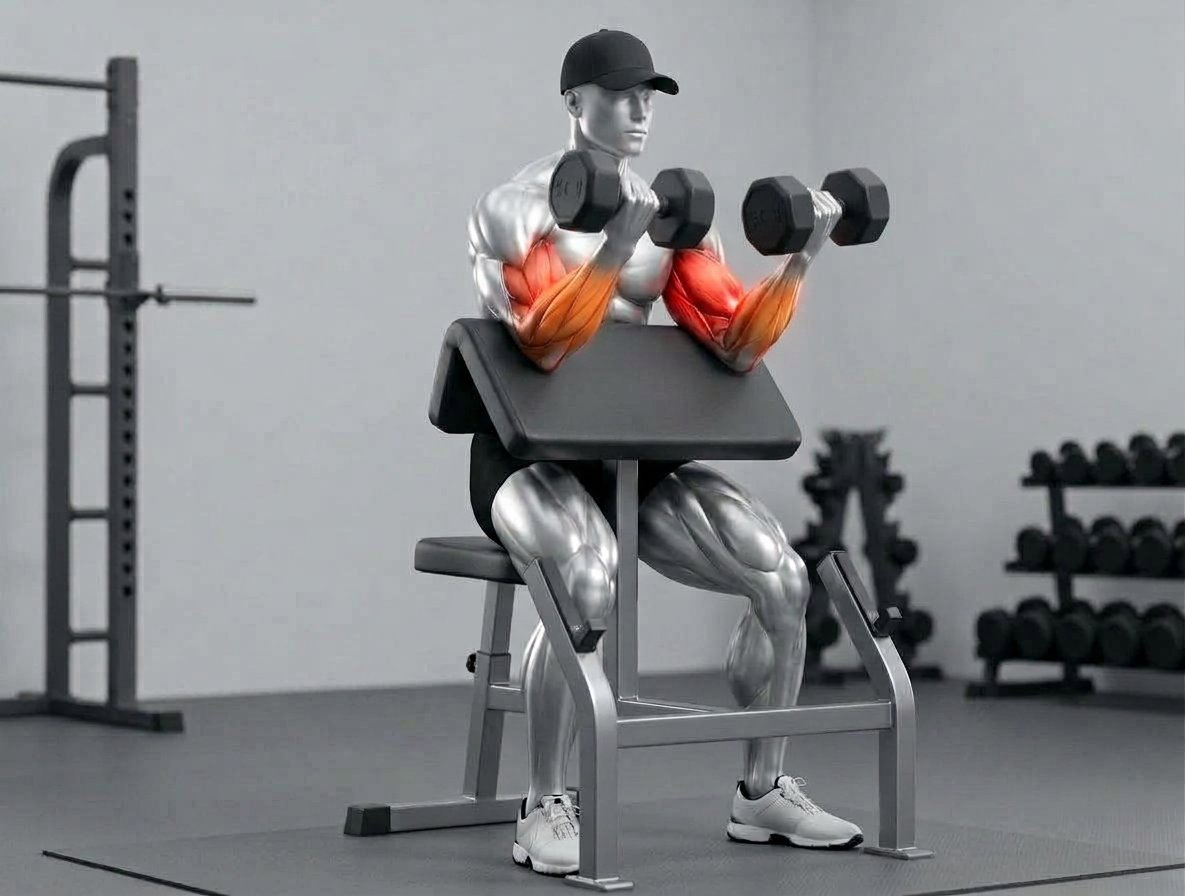
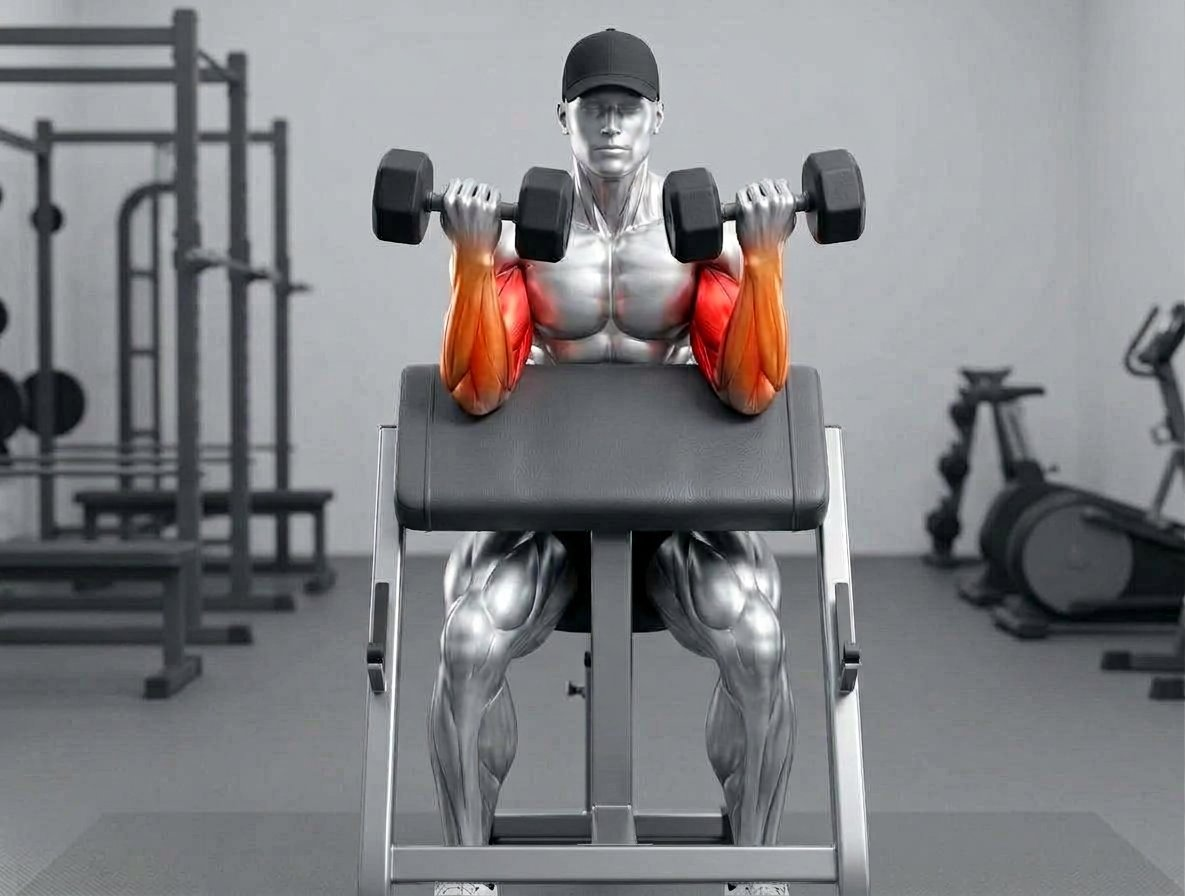
B2 v8 + B9 v2: top start, closed pronated fists, verified with zooms

diff --git a/yanis-fitness-evolution/docs/videos-3d/06-DESCRIPTIONS-PRECISES.md b/yanis-fitness-evolution/docs/videos-3d/06-DESCRIPTIONS-PRECISES.md
@@ -108,28 +108,25 @@ pieds au sol, regard devant.
 Animate this same silver-chrome athletic man with matte black baseball cap, black shorts, white sneakers, standing and holding a chrome EZ curl bar with small black plates with an UNDERHAND supinated grip (palms facing up), arms down, elbows pinned against his sides. PHASE 1 (~2.5s): bend ONLY the elbows, curling the bar up in an arc toward the shoulders, elbows GLUED to the body and perfectly still, torso upright, no swinging or leaning. PHASE 2 (~2s): slow controlled lowering back to nearly straight arms (elbows never locked). LOCKED: elbows against the body, straight wrists, feet planted, eyes forward. Biceps glowing vivid RED with stable glow, no flicker. Front three-quarter medium shot, static camera, bright gym, end pose identical to start pose for a perfect loop. AVOID: moving elbows, swinging torso, bent wrists, fully locked elbows, extra limbs, deformed hands, flickering muscles, watermark, text.
 ```
 
-### B2 — Curl pupitre barre EZ pronation (REFAIT v6 le 22/10 : mains DESSUS, doigts pendants)
+### B2 — Curl pupitre barre EZ pronation (v8 validée le 22/10 : départ EN HAUT, poings fermés)
 
 **Photo :** `vague1-biceps-02-scott-ez-pronation.jpg` + zoom de contrôle
-`vague1-biceps-02-zoom-prise.jpg` (v1→v4 rejetées : supination au lieu de
-pronation — v5 comparée à une planche anatomique de reverse curl :
-mains en TOIT sur la barre, bouts des doigts vers le BAS)
+`vague1-biceps-02-zoom-prise.jpg`
 
 **Description précise (FR) :** POSITION DE DÉPART (photo) : VUE DE FACE,
-assis au pupitre, haut des bras À PLAT, bras ALLONGÉS le long du plan,
-barre EZ en bas en PRISE PRONATION EN TOIT : dos des mains +
-articulations vers la caméra, doigts passent PAR-DESSUS la barre, bouts
-des doigts vers le BAS, paumes vers le sol. PHASE 1 (~2,5 s) : flexion
-des coudes, barre monte vers le menton, bouts des doigts RESTENT vers
-le bas. PHASE 2 (~2 s) : descente lente jusqu'à extension quasi
-complète, sans verrouiller. VERROUILLÉ : pronation À TOUT MOMENT
-(bouts des doigts vers le haut ou paumes visibles = FAUX), bras sur le
-pupitre, buste immobile.
+assis au pupitre, haut des bras À PLAT, coudes FLÉCHIS, barre EZ EN HAUT
+au niveau du menton, POINGS FERMÉS en pronation : dos des mains +
+articulations vers la caméra, bouts des doigts vers le BAS, paumes vers
+le sol. PHASE 1 (~2,5 s) : descente lente jusqu'à extension quasi
+complète SANS verrouiller, pronation GARDÉE (bouts des doigts restent
+vers le bas). PHASE 2 (~2,5 s) : remontée au menton. VERROUILLÉ :
+pronation À TOUT MOMENT (paumes visibles ou doigts vers le haut = FAUX),
+bras sur le pupitre, buste immobile.
 
 **Prompt arena.ai (EN, copiable) :**
 
 ```text
-Animate this same silver-chrome athletic man with matte black baseball cap, black shorts, white sneakers, seated at a preacher curl bench in FRONT VIEW, upper arms resting FLAT on the angled pad, arms EXTENDED down along the pad, chrome EZ curl bar with small black plates resting LOW in an OVERHAND PRONATED GRIP LIKE A ROOF OVER THE BAR: backs of the hands and knuckles toward the camera, fingers passing OVER the bar with fingertips pointing DOWN, palms facing the floor, wrists straight. PHASE 1 (~2.5s): close the grip over the bar and bend ONLY the elbows, curling the bar up toward the chin, fingertips STAY pointing down and palms STAY facing the floor the whole time, upper arms GLUED to the pad, torso still. PHASE 2 (~2s): slow lowering back to near-full extension WITHOUT locking the elbows. LOCKED: pronated overhand grip AT ALL TIMES — fingertips pointing up or visible palms is WRONG — arms on the pad, no shoulder movement. Biceps glowing vivid RED and forearms orange, stable glow, no flicker. FRONT medium shot clearly showing the roof grip with downward fingertips, static camera, bright gym, end pose identical to start pose for a perfect loop. AVOID: underhand grip, fingertips pointing up, visible palms, supination, arms lifting off the pad, swinging torso, locked elbows, extra limbs, deformed hands, flickering muscles, watermark, text.
+Animate this same silver-chrome athletic man with matte black baseball cap, black shorts, white sneakers, seated at a preacher curl bench in FRONT VIEW, upper arms resting FLAT on the angled pad, elbows FULLY BENT, chrome EZ curl bar with small black plates held UP AT CHIN LEVEL in CLOSED OVERHAND FISTS: knuckles and backs of the hands toward the camera, fingertips wrapped under pointing DOWN, palms facing the floor. PHASE 1 (~2.5s): lower the bar slowly to near-full extension WITHOUT locking the elbows, pronation HELD the whole time (fingertips stay down, no palms showing), upper arms GLUED to the pad, torso still. PHASE 2 (~2.5s): curl the bar back up to chin level by bending ONLY the elbows. LOCKED: pronated closed fists AT ALL TIMES — visible palms or upward fingertips is WRONG — arms on the pad, no shoulder movement. Biceps glowing vivid RED and forearms orange, stable glow, no flicker. FRONT medium shot clearly showing the fists, static camera, bright gym, end pose identical to start pose for a perfect loop. AVOID: underhand grip, open hands, fingertips pointing up, visible palms, supination, arms lifting off the pad, swinging torso, locked elbows, extra limbs, deformed hands, flickering muscles, watermark, text.
 ```
 
 ### B3 — Curl marteau assis
@@ -234,23 +231,22 @@ VERROUILLÉ : coudes aux flancs, tension constante du câble.
 Animate this same silver-chrome athletic man with matte black baseball cap, black shorts, white sneakers, standing facing a LOW PULLEY cable machine, holding a short STRAIGHT bar attached to the low cable with an UNDERHAND SUPINATED GRIP (palms facing UP), elbows pinned against his sides, cable taut from the floor pulley. From this mid-curl position, PHASE 1 (~2s): extend the elbows slowly, lowering the bar to thigh level WITHOUT locking the elbows, torso upright and still, cable stays taut. PHASE 2 (~2.5s): curl the bar back up toward the shoulders by bending ONLY the elbows, no leaning, no shoulder swing. LOCKED: elbows at sides, underhand grip, constant cable tension, feet planted. Biceps glowing vivid RED, stable glow, no flicker. Front three-quarter medium shot showing the low pulley and taut cable, static camera, bright gym, end pose identical to start pose for a perfect loop. AVOID: EZ bar, high pulley, leaning back, moving elbows, slack cable, locked elbows, extra limbs, deformed hands, flickering muscles, watermark, text.
 ```
 
-### B9 — Curl haltère supination, banc Scott 90° (#09)
+### B9 — Curl haltère supination, banc Scott 90° (#09, v2 : départ en haut EN PRONATION, choix Yanis)
 
-**Photo :** `vague1-biceps-09-supination-scott-90.jpg` (montre le HAUT :
-supination complète, paumes vers le visage)
+**Photo :** `vague1-biceps-09-supination-scott-90.jpg` + zoom de contrôle
+`vague1-biceps-09-zoom-prise.jpg`
 
-**Description précise (FR) :** Assis au pupitre, haut des bras À PLAT,
-un haltère dans chaque main. DÉPART en haut, supination complète.
-PHASE 1 (~2,5 s) : descente lente en DÉVISSANT les poignets : de
-supination vers NEUTRE (paumes face à face) en bas, sans verrouiller.
-PHASE 2 (~2,5 s) : remontée en VISSANT : rotation progressive dès la
-mi-montée (pouces vers l'extérieur, auriculaires vers le haut) jusqu'à
-supination COMPLÈTE en haut (paumes vers le visage), contraction
-marquée. VERROUILLÉ : bras sur le pupitre, rotation continue et
-fluide des poignets.
+**Description précise (FR) :** POSITION DE DÉPART (photo) : VUE DE FACE,
+assis au pupitre, haut des bras À PLAT, haltères EN HAUT près du menton,
+POINGS FERMÉS EN PRONATION (paumes vers le SOL). PHASE 1 (~2,5 s) :
+descente lente en TOURNANT les poignets : de pronation vers SUPINATION
+(paumes vers le visage) en bas, sans verrouiller. PHASE 2 (~2,5 s) :
+remontée en tournant EN SENS INVERSE : de supination vers PRONATION
+(paumes vers le sol) en haut. VERROUILLÉ : bras sur le pupitre, rotation
+continue des poignets dans les 2 sens, poings fermés.
 
 **Prompt arena.ai (EN, copiable) :**
 
 ```text
-Animate this same silver-chrome athletic man with matte black baseball cap, black shorts, white sneakers, seated at a preacher curl bench, upper arms resting FLAT on the pad, a hex dumbbell in each hand, STARTING from this top contracted position with FULL SUPINATION (palms facing the face). PHASE 1 (~2.5s): lower both dumbbells slowly while UNWINDING the wrists, rotating from supinated to NEUTRAL grip (palms facing each other) at full extension WITHOUT locking the elbows, upper arms GLUED to the pad. PHASE 2 (~2.5s): curl back up while ROTATING the wrists from neutral into FULL SUPINATION — palms turn progressively upward from mid-range, pinkies rotating up, finishing with palms facing the face at the top, peak squeeze. LOCKED: arms on the pad, smooth continuous wrist rotation, no elbow lockout. Biceps glowing vivid RED, stable glow, no flicker. Front three-quarter medium shot showing the wrist rotation clearly, static camera, bright gym, end pose identical to start pose for a perfect loop. AVOID: no rotation, static grip, arms off the pad, locked elbows, swinging torso, extra limbs, deformed hands, flickering muscles, watermark, text.
+Animate this same silver-chrome athletic man with matte black baseball cap, black shorts, white sneakers, seated at a preacher curl bench in FRONT VIEW, upper arms resting FLAT on the angled pad, a hex dumbbell in EACH hand held UP near chin level in CLOSED PRONATED FISTS (palms facing DOWN toward the floor, backs of the hands toward the camera). PHASE 1 (~2.5s): lower both dumbbells slowly to near-full extension WITHOUT locking the elbows, ROTATING the wrists continuously from pronation into SUPINATION (palms turning to face the face at the bottom), upper arms GLUED to the pad. PHASE 2 (~2.5s): curl back up to the top while ROTATING the wrists back from supination into PRONATION (palms facing the floor at the top). LOCKED: arms on the pad, smooth continuous wrist rotation in BOTH directions, closed fists, no elbow lockout. Biceps glowing vivid RED, stable glow, no flicker. FRONT medium shot clearly showing the fists and rotation, static camera, bright gym, end pose identical to start pose for a perfect loop. AVOID: static grip, no rotation, open hands, arms off the pad, locked elbows, swinging torso, extra limbs, deformed hands, flickering muscles, watermark, text.
 ```
